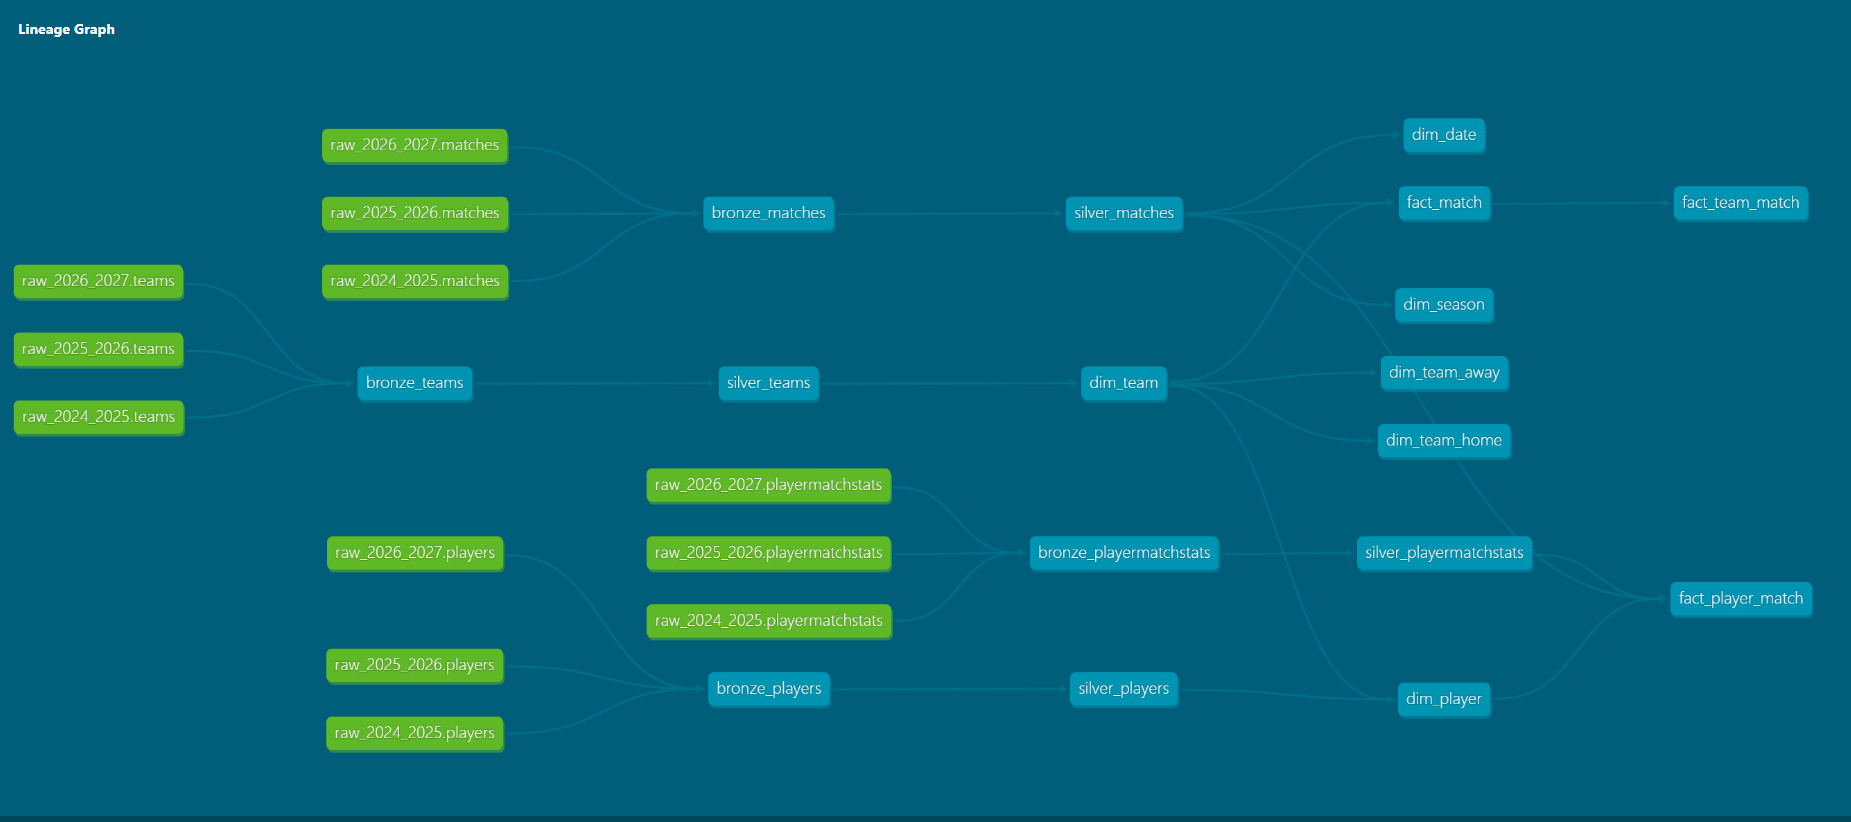
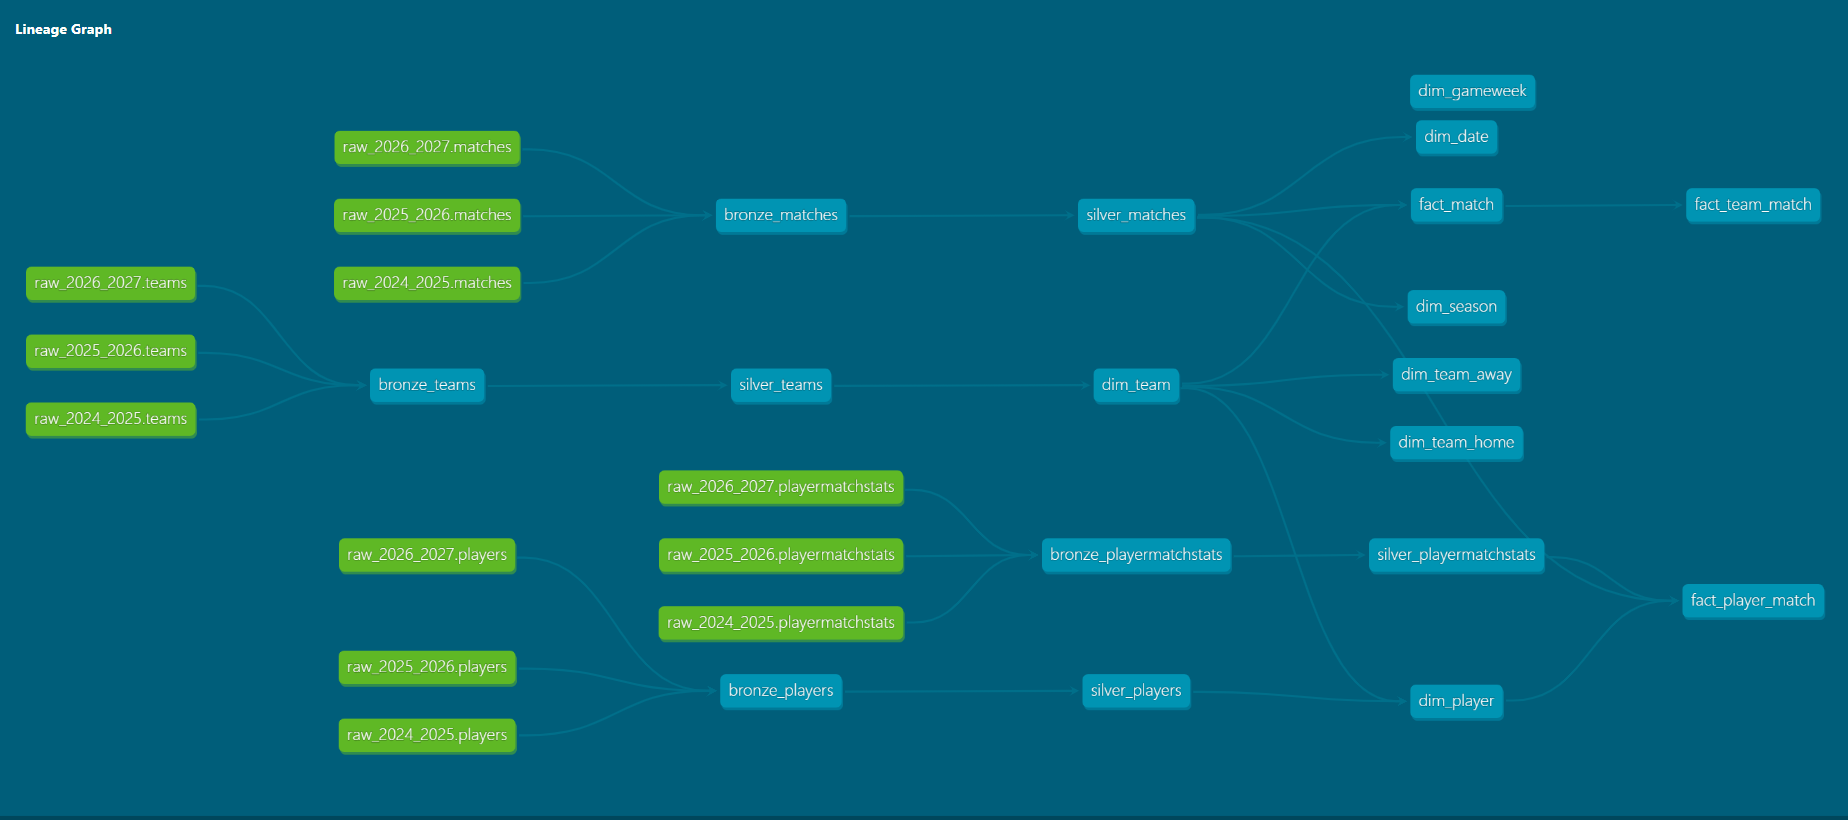
update gold layer add dim_gameweek and update docs images

diff --git a/src/fpl_data_engineer_project/fpl_dbt/README.md b/src/fpl_data_engineer_project/fpl_dbt/README.md
@@ -100,6 +100,7 @@ Dimensions:
 
 - `dim_season`: season data.
 - `dim_date`: calendar data generated from match kickoff dates.
+- `dim_gameweek`: contains the 38 Premier League gameweeks (1–38), generated independently of match data.
 - `dim_team`: team data scoped by season.
 - `dim_team_home`: home-team view of `dim_team`.
 - `dim_team_away`: away-team view of `dim_team`.
@@ -131,9 +132,9 @@ The following are all Premier League players with transfers between two clubs in
 
 | Fact table | Grain | Star-schema dimensions |
 |---|---|---|
-| `fact_match` | One row per match | `dim_season`, `dim_date`, `dim_team_home`, `dim_team_away` |
-| `fact_team_match` | One home or away team row per match | `dim_season`, `dim_date`, `dim_team` (team and opponent roles) |
-| `fact_player_match` | One player performance row per match | `dim_season`, `dim_date`, `dim_player`, `dim_team` |
+| `fact_match` | One row per match | `dim_season`, `dim_date`,`dim_gameweek`, `dim_team_home`, `dim_team_away` |
+| `fact_team_match` | One home or away team row per match | `dim_season`, `dim_date`,`dim_gameweek`, `dim_team` (team and opponent roles) |
+| `fact_player_match` | One player performance row per match | `dim_season`, `dim_date`, `dim_player`,`dim_gameweek`, `dim_team` |
 
 The galaxy schema and its star-schema relationships are documented in
 [`gold_layer.dbml`](../../../gold_layer.dbml).

diff --git a/README.md b/README.md
@@ -141,15 +141,15 @@ star-schema view, and shared dimensions connect the stars.
 - `dim_team_home`
 - `dim_team_away`
 - `dim_player`
+- `dim_gameweek`
 
 | Fact table | Grain | Star-schema dimensions |
 |---|---|---|
-| `fact_match` | One row per match | `dim_season`, `dim_date`, `dim_team_home`, `dim_team_away` |
-| `fact_team_match` | One row per team per match | `dim_season`, `dim_date`, `dim_team` (team and opponent roles) |
-| `fact_player_match` | One row per player per match | `dim_season`, `dim_date`, `dim_player`, `dim_team` |
+| `fact_match` | One row per match | `dim_season`, `dim_date`,`dim_gameweek`, `dim_team_home`, `dim_team_away` |
+| `fact_team_match` | One row per team per match | `dim_season`, `dim_date`,`dim_gameweek`, `dim_team` (team and opponent roles) |
+| `fact_player_match` | One row per player per match | `dim_season`, `dim_date`,`dim_gameweek`, `dim_player`, `dim_team` |
 
-The complete galaxy schema and its star-schema relationships are documented in
-[`gold_layer.dbml`](gold_layer.dbml).
+
 
 ## Other
 
